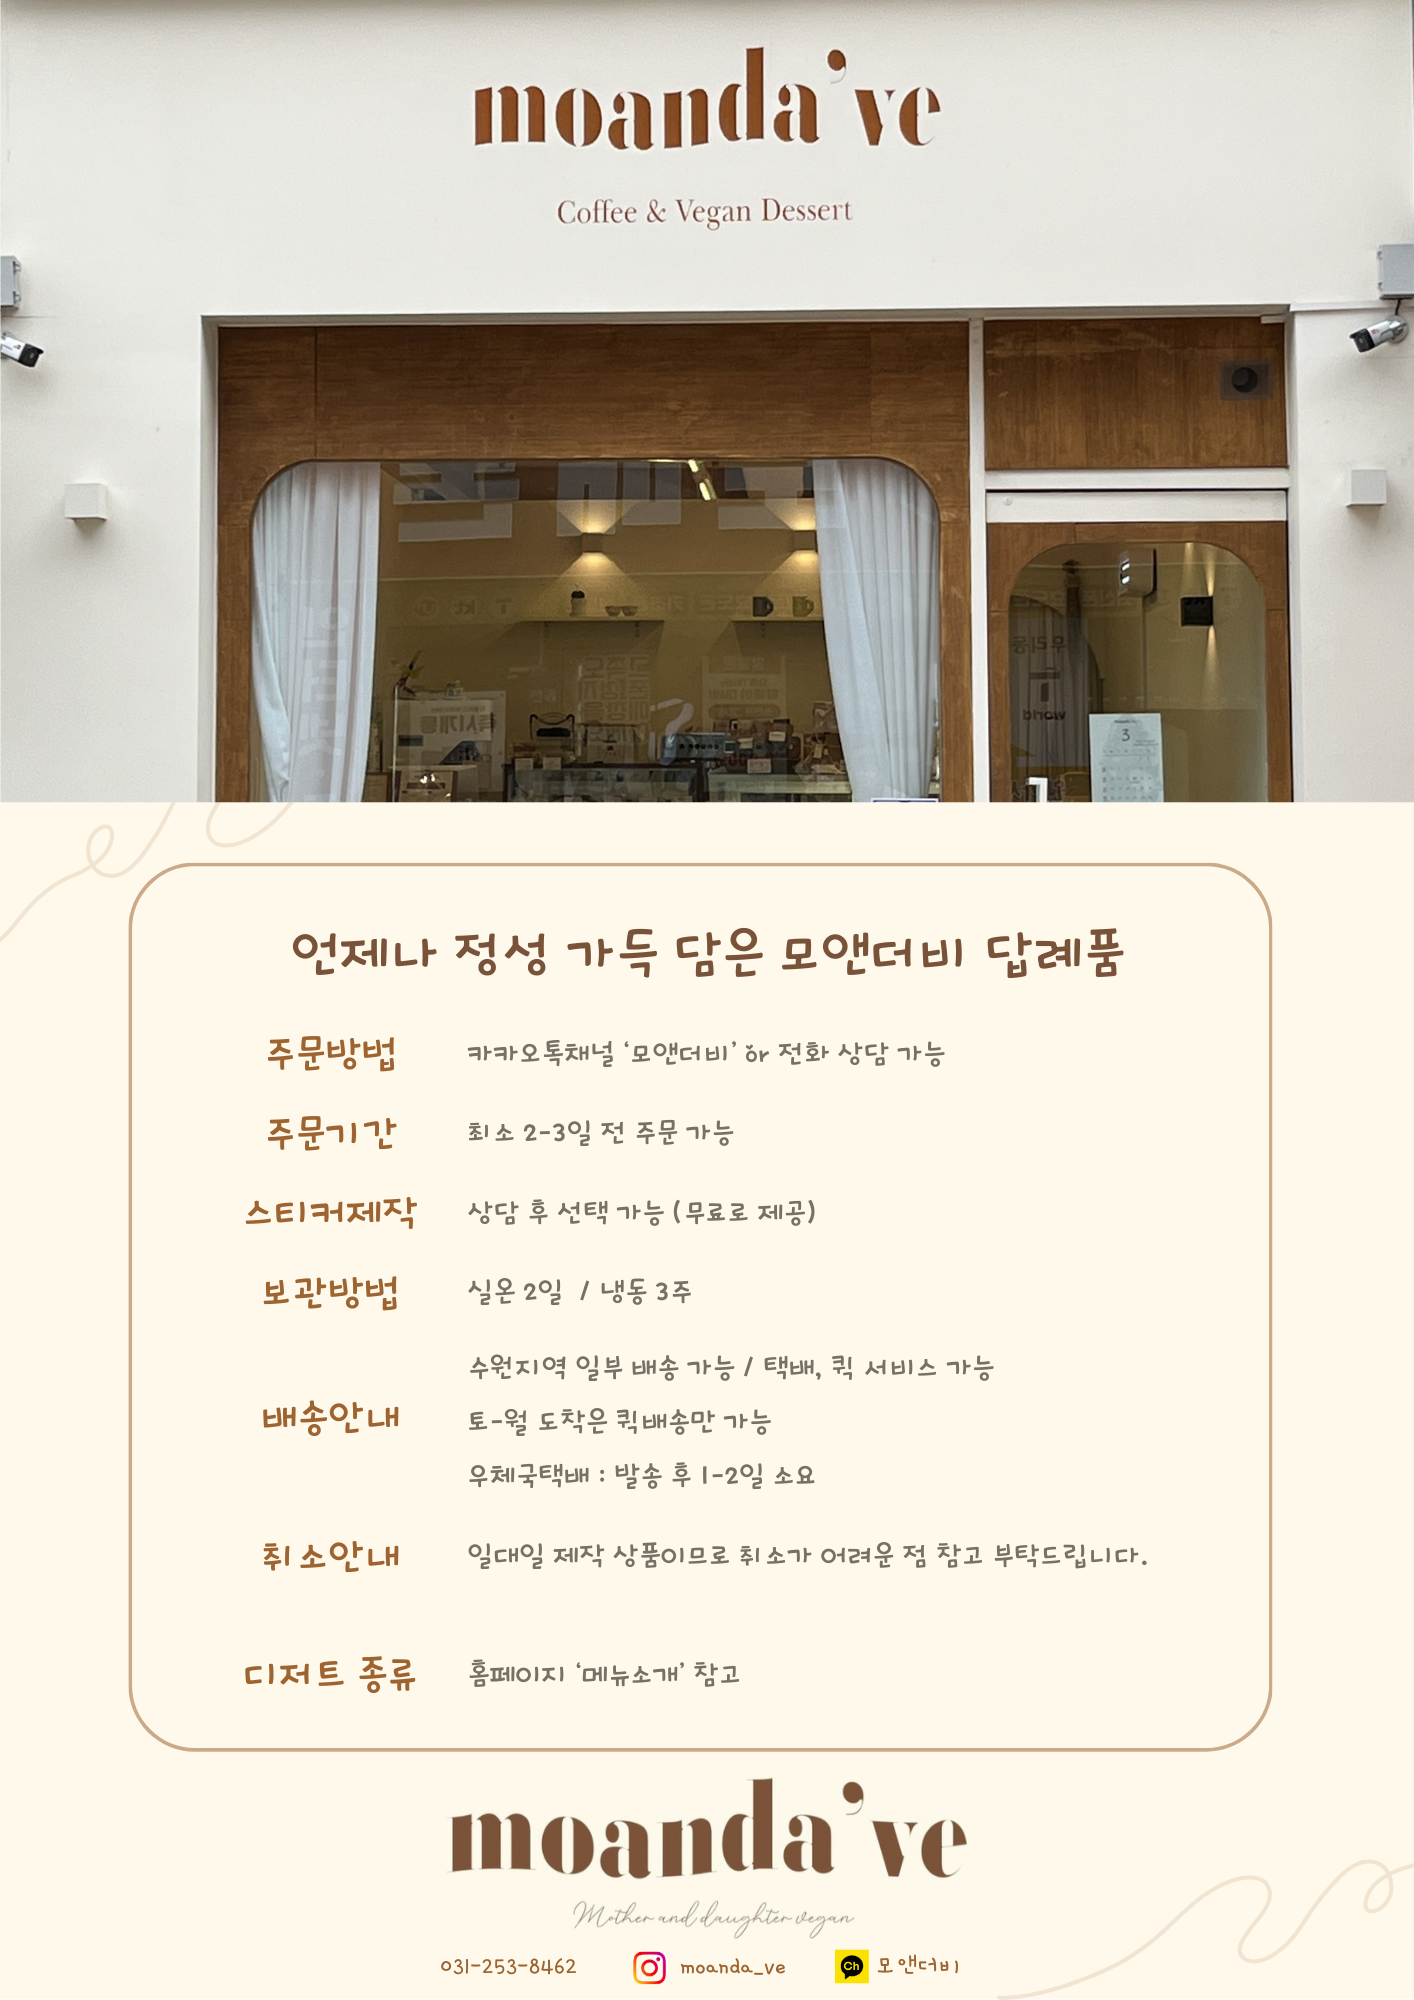
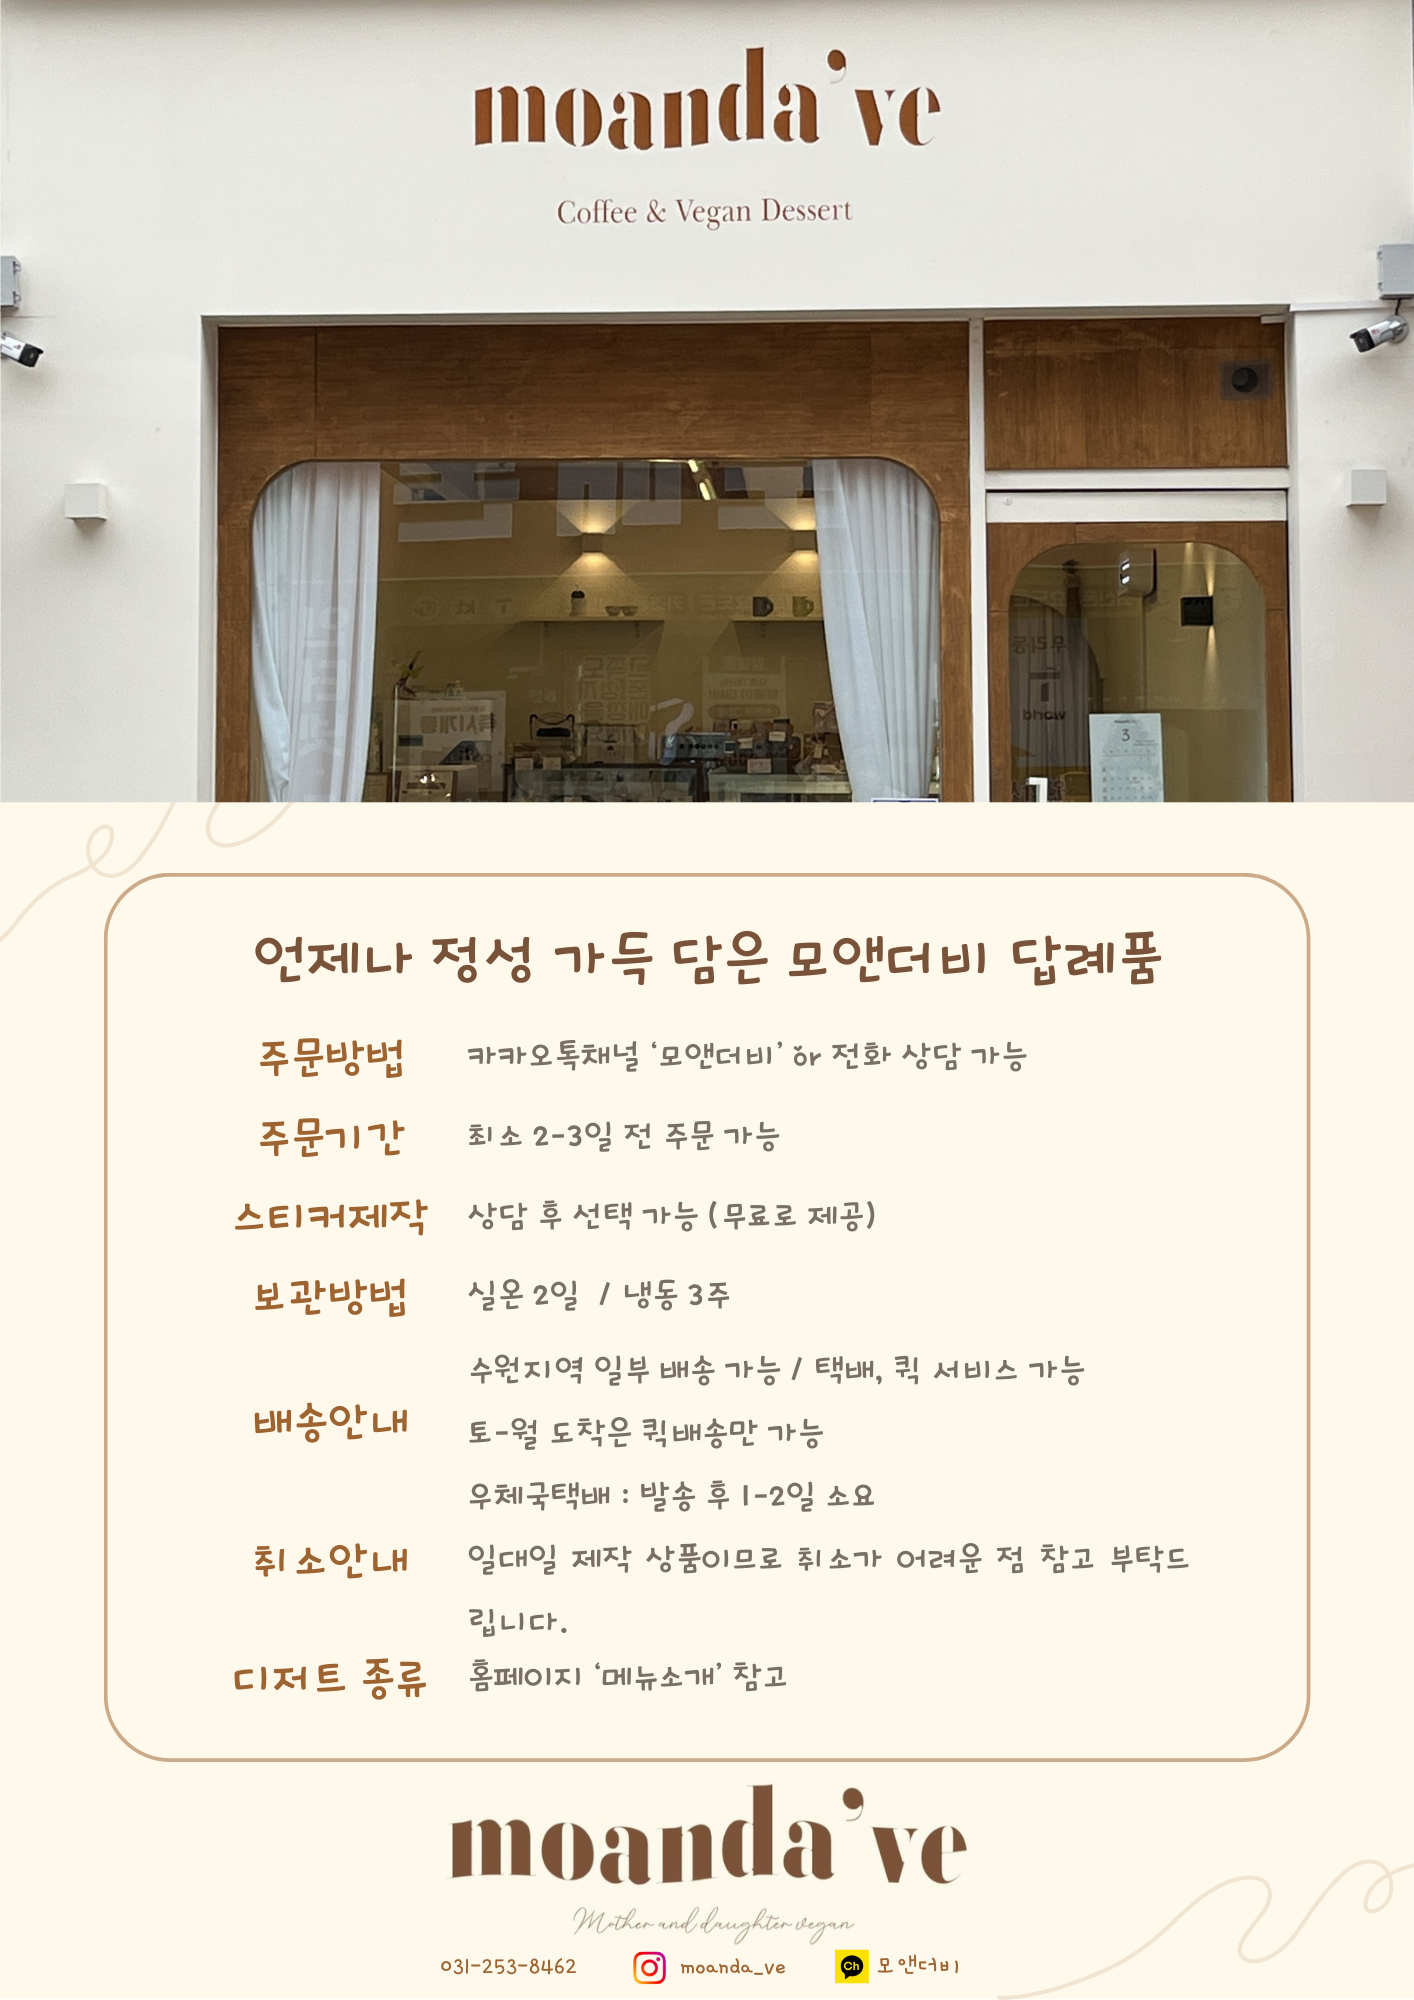
design: 메뉴 타이틀 디자인 변경 및 poster 폰트 사이즈 수정

diff --git a/src/components/MenuDetail/style.ts b/src/components/MenuDetail/style.ts
@@ -34,7 +34,7 @@ export const StoreDetail = styled.div`
   display: grid;
   grid-template-columns: repeat(6, 1fr);
   grid-row-gap: 30px;
-  margin-bottom: 30px;
+  margin-bottom: 50px;
 
   @media ${({ theme }) => theme.windowSize.xlarge} {
     grid-template-columns: repeat(5, 1fr);
@@ -47,6 +47,7 @@ export const StoreDetail = styled.div`
   }
   @media screen and (max-width: 550px) {
     grid-template-columns: repeat(2, 1fr);
+    grid-row-gap: 10px;
   }
 
   div {
@@ -89,23 +90,37 @@ export const MenuItem = styled.div`
   h2 {
     width: 120px;
     text-align: center;
+    color: #808080;
   }
 
   transition: all 0.1s ease-in-out;
-  &:hover {
-    opacity: 0.5;
+
+  @media (min-width: 768px) {
+    &:hover {
+      opacity: 0.5;
+    }
   }
 `;
 
 export const MenuItemTitle = styled.h1`
-  width: 70%;
-  height: 40px;
-  font-size: 30px;
-  border-bottom: 1px solid #999;
-  font-weight: bold;
-  font-family: "NanumSquareNeo";
-  margin: 30px 0;
-  padding-bottom: 10px;
+  font-size: 25px;
+  line-height: 25px;
+  font-weight: 600;
+  color: #fafafa;
+  white-space: nowrap;
+  background-color: #7b5339;
+  padding: 11px 30px 8px 30px;
+  border-radius: 30px;
+`;
+export const MenuItemTitles = styled.div`
+  width: 100%;
+  display: flex;
+  align-items: center;
+  p {
+    width: 50%;
+    background-color: #d3a47f;
+    height: 3px;
+  }
 `;
 
 export const MenuModal = styled.div<IModalProps>`

diff --git a/src/components/MenuDetail/index.tsx b/src/components/MenuDetail/index.tsx
@@ -71,7 +71,11 @@ const MenuDetail = () => {
       {Object.entries(MenuItems).map(([title, items], index) => (
         <S.MenuDetailContainer key={index}>
           <S.MenuDetailDiv ref={addItemRef}>
-            <S.MenuItemTitle key={index}>{title}</S.MenuItemTitle>
+            <S.MenuItemTitles>
+              <p></p>
+              <S.MenuItemTitle key={index}>{title}</S.MenuItemTitle>
+              <p></p>
+            </S.MenuItemTitles>
             <S.StoreDetail>
               {Object.entries(items).map(([name, item], idx) => (
                 <div key={idx}>
